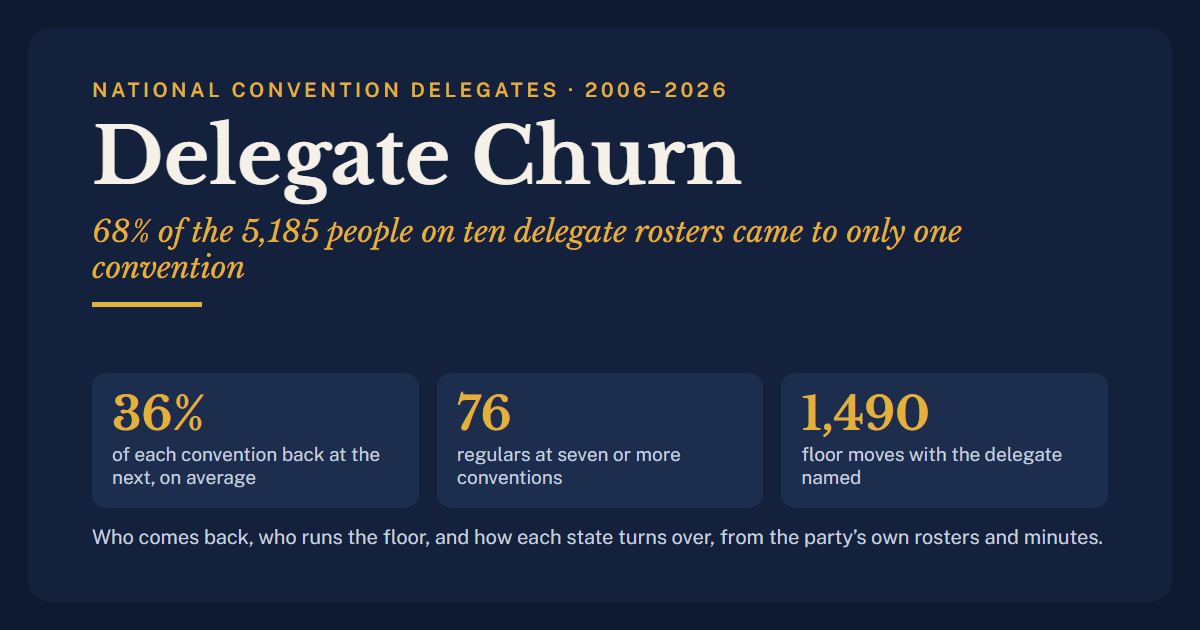
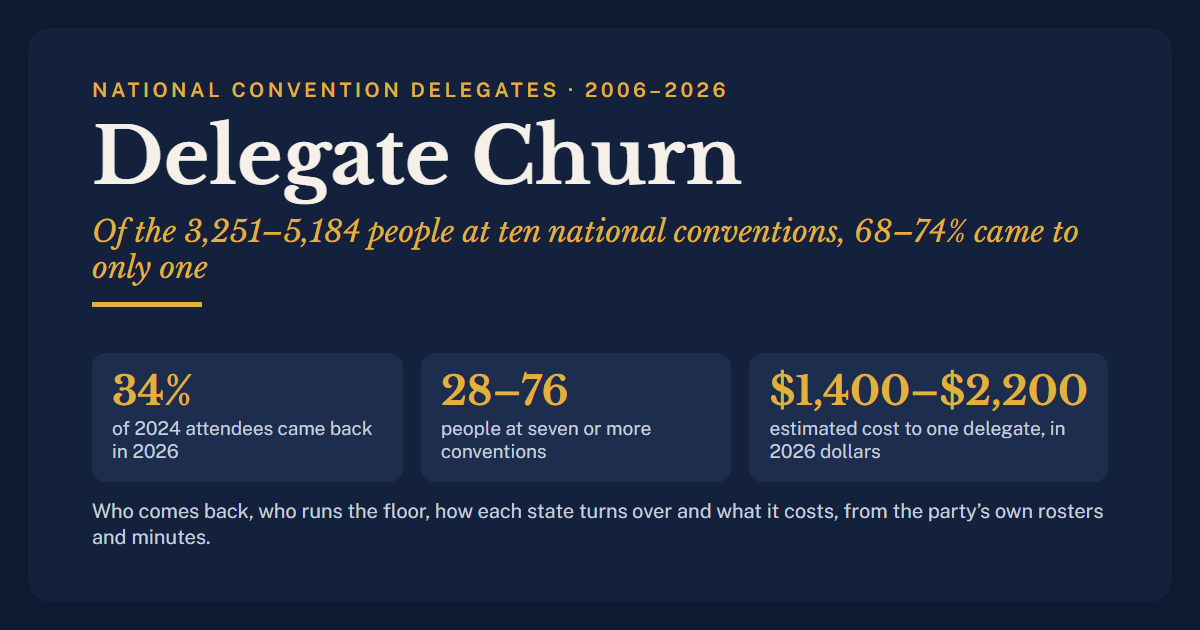
Preview card: current figures

Changed region(s): [[0.0617, 0.573, 0.925, 0.8746], [0.0617, 0.3317, 0.8942, 0.4524]]

diff --git a/index.html b/index.html
@@ -14,7 +14,7 @@
 <meta property="og:image" content="https://drugsforrobots.github.io/delegate-churn/preview.png">
 <meta property="og:image:width" content="1200">
 <meta property="og:image:height" content="630">
-<meta property="og:image:alt" content="Delegate Churn, 2006–2026: 68% of 5,185 convention delegates came only once">
+<meta property="og:image:alt" content="Delegate Churn, 2006–2026: of the 3,251–5,184 people at ten national conventions, 68–74% came to only one">
 <meta name="twitter:card" content="summary_large_image">
 <meta name="twitter:title" content="Delegate Churn, 2006–2026">
 <meta name="twitter:description" content="Who comes back to the Libertarian Party's national conventions, who runs the floor, and how each state's delegation turns over, from the party's own rosters and minutes, 2006–2026.">
